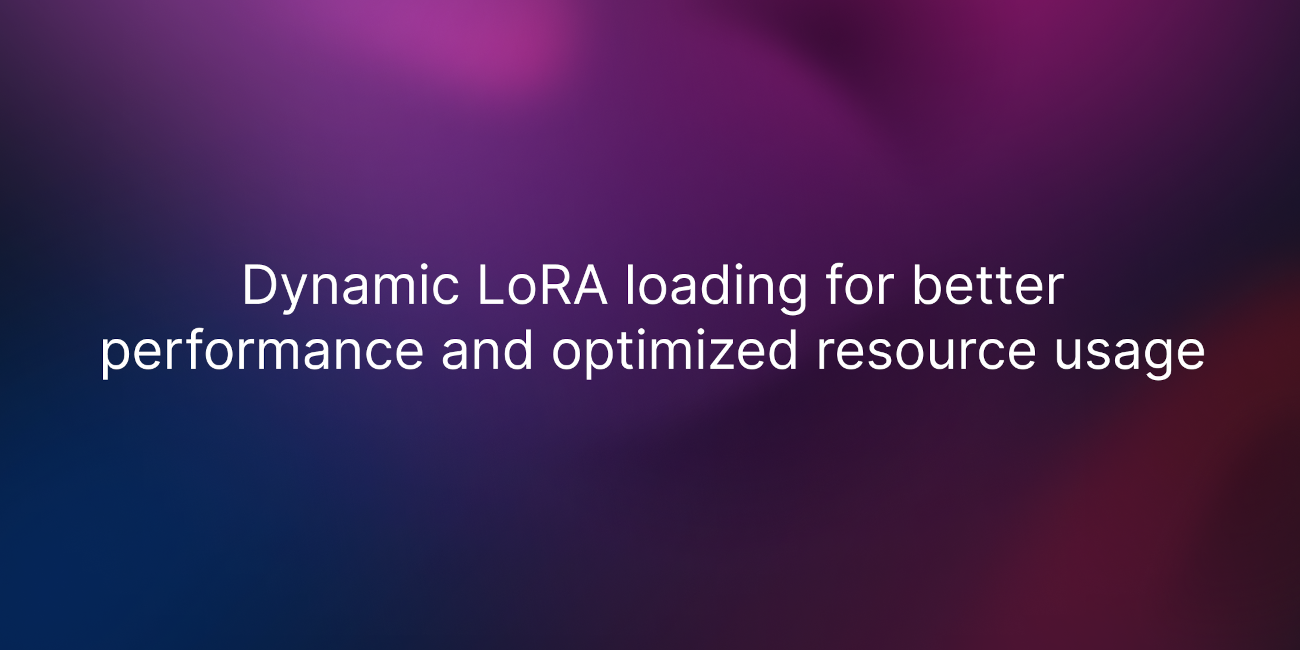
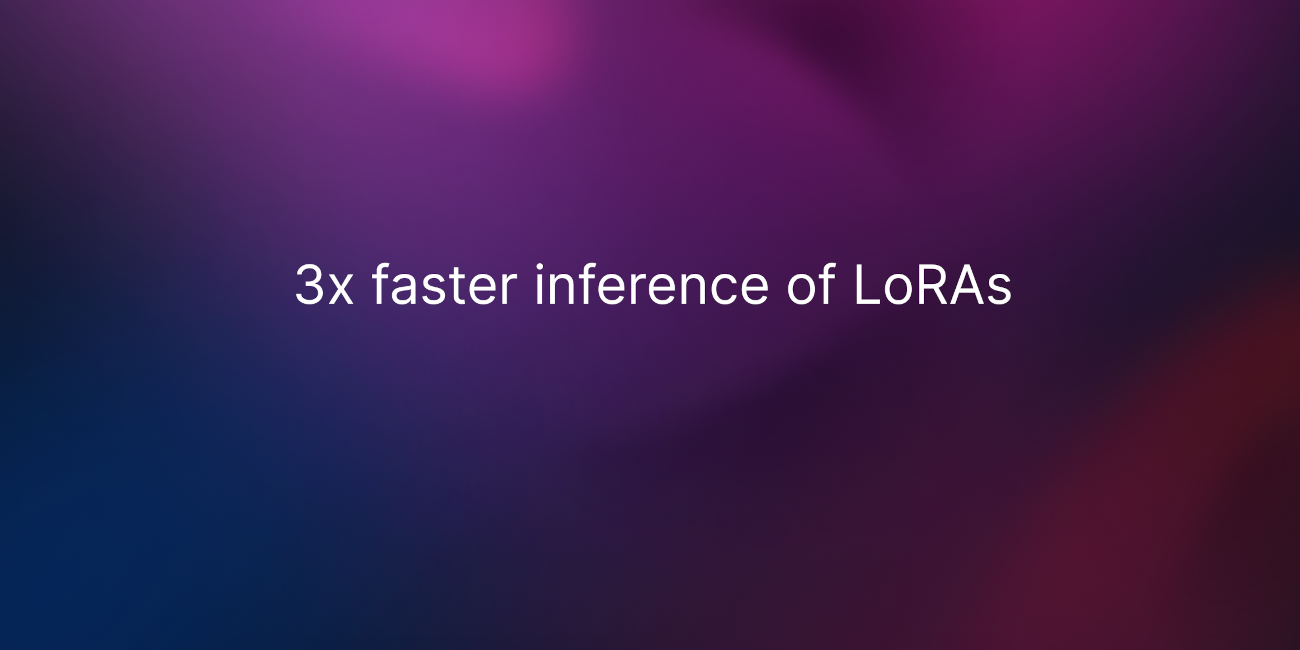
LoRA inference: blog page retitle

Changed region(s): [[0.1846, 0.4, 0.8308, 0.4923], [0.0615, 0.4923, 0.9231, 0.5846]]

diff --git a/lora-adapters-dynamic-loading.md b/lora-adapters-dynamic-loading.md
@@ -1,5 +1,5 @@
 ---
-title: Dynamic LoRA loading for better performance and optimized resource usage
+title: 3x faster inference of LoRAs
 thumbnail: /blog/assets/171_load_lora_adapters/thumbnail.png
 authors:
 - user: raphael-gl
@@ -7,7 +7,7 @@ authors:
 
 # Dynamic LoRA loading for better performance and optimized resource usage
 
-We've been able to drastically speed up inference in the Hub for LoRAs based on Diffusion models. This has allowed us to save compute resources and provide a better user experience.
+We've been able to drastically speed up inference in the Hub for public LoRAs based on public Diffusion models. This has allowed us to save compute resources and provide a better user experience.
 
 To perform inference on a given model, there are two steps:
 1. Warm up phase - that consists in downloading the model and setting up the service (25s).
@@ -41,7 +41,7 @@ For a more exhaustive presentation on what LoRA is, please refer to the followin
 
 ## Benefits
 
-We have approximately **130** distinct LoRAs on the Hub. The vast majority (**~92%**) of them are LoRAs based on the [Stable Diffusion XL Base 1.0](https://huggingface.co/stabilityai/stable-diffusion-xl-base-1.0) model.
+We have approximately **2500** distinct LoRAs on the Hub. The vast majority (**~92%**) of them are LoRAs based on the [Stable Diffusion XL Base 1.0](https://huggingface.co/stabilityai/stable-diffusion-xl-base-1.0) model.
 
 Before this mutualization, this would have meant deploying a dedicated service for all of them (eg. for all the yellow merged matrices in the diagram above); releasing + reserving at least one new GPU. The time to spawn the service and have it ready to serve requests for a specific model is approximately **25s**, then on top of this you have the inference time (**~10s** for a 1024x1024 SDXL inference diffusion with 25 inference steps on an A10G). If an adapter is only occasionally requested, its service gets stopped to free resources preempted by others.
 
@@ -251,4 +251,6 @@ Recently a really interesting [paper](https://arxiv.org/abs/2311.03285) came out
 
 ## Conclusion: **Time**!
 
-Using dynamic LoRA loading, we were able to save compute resources and improve the user experience in the Hub Inference API. Despite the extra time added by the process of unloading the previously loaded adapter and loading the one we're interested in, the fact that the serving process is most often already up and running makes the inference time response on the whole much shorter. Please do let us know if you apply the same method to your deployment!
+Using dynamic LoRA loading, we were able to save compute resources and improve the user experience in the Hub Inference API. Despite the extra time added by the process of unloading the previously loaded adapter and loading the one we're interested in, the fact that the serving process is most often already up and running makes the inference time response on the whole much shorter.
+
+Note that for a LoRA to benefit from this inference optimization on the Hub, it must both be public, non-gated and based on a non-gated public model. Please do let us know if you apply the same method to your deployment!
